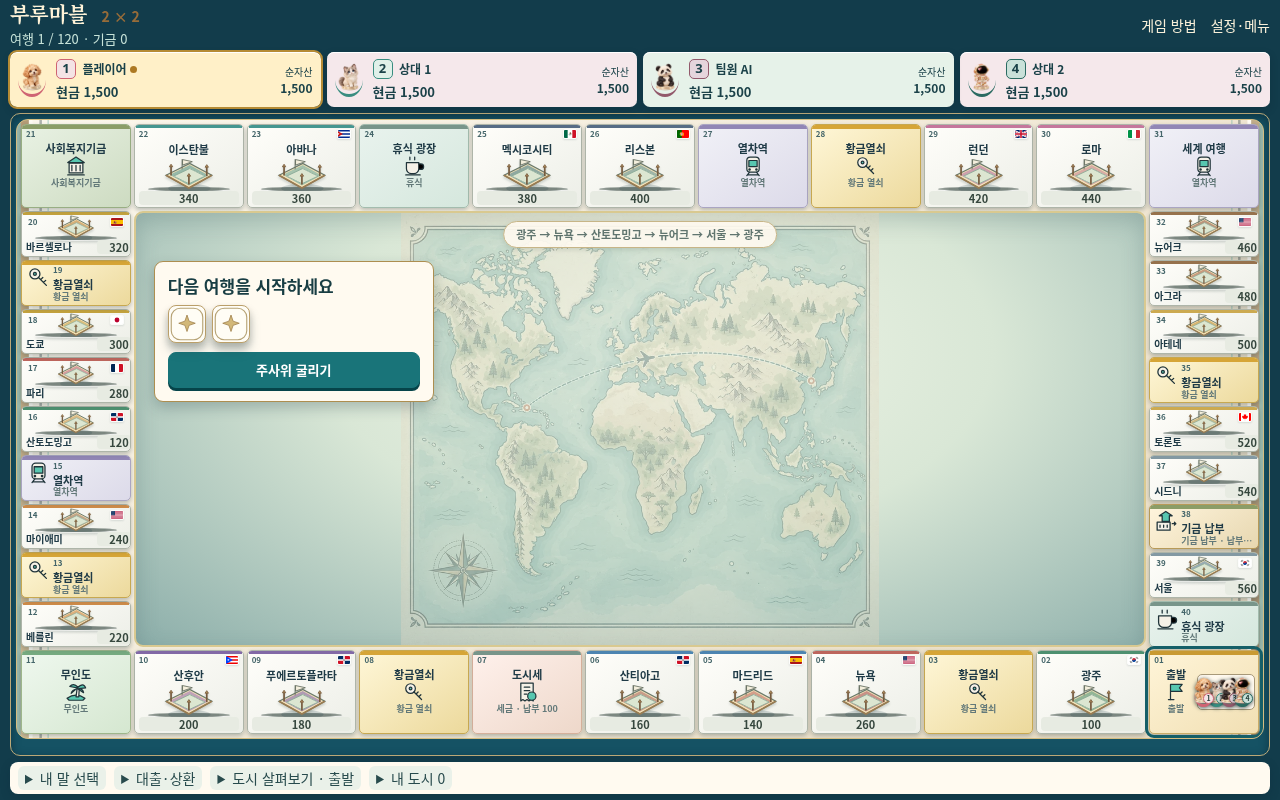
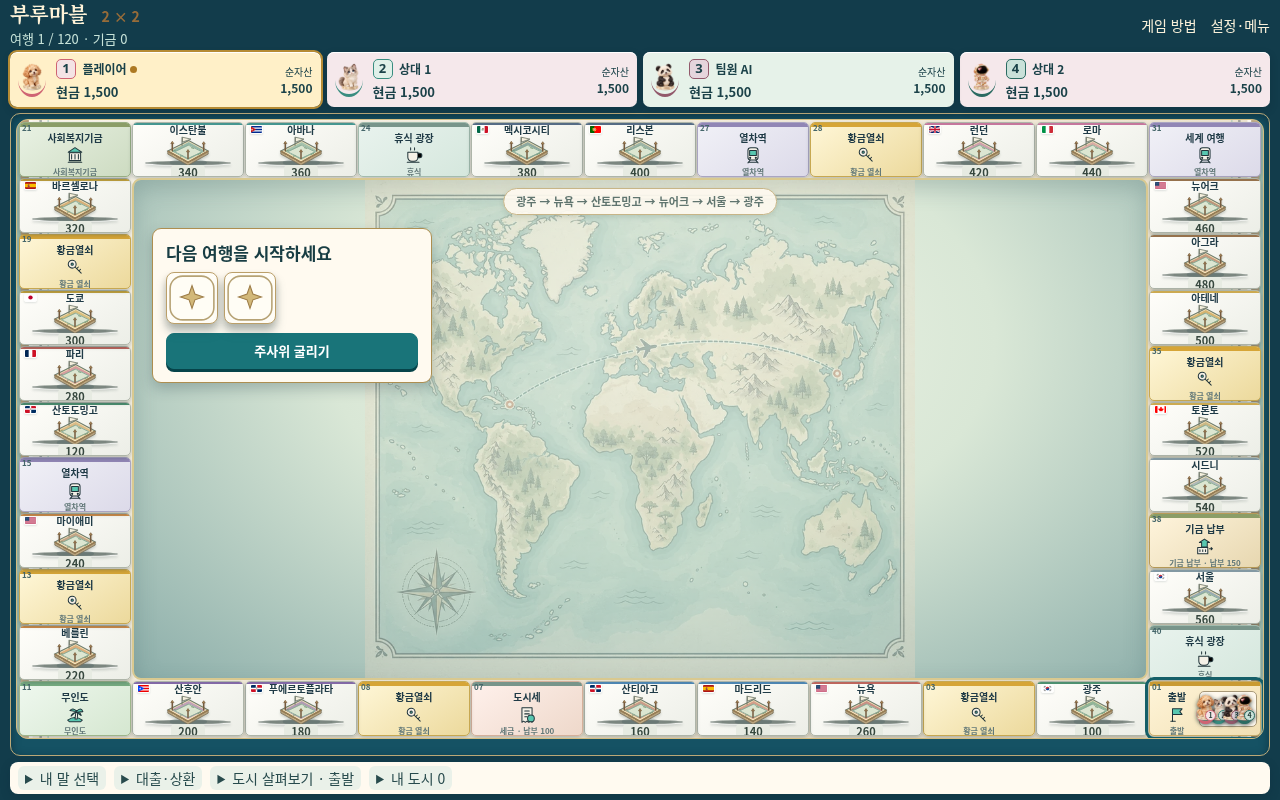
Equalize Marble edge tiles and share building art

Changed region(s): [[0.0, 0.125, 1.0, 0.9375]]

diff --git a/src/app/marble-stage-redesign.css b/src/app/marble-stage-redesign.css
@@ -310,7 +310,7 @@
   }
   :is(.marble-premium,.marble-native-team).is-modern .mp-center-stage.mp-stage--roll:has(.mp-stage-art) .mp-stage-art { width:70px; height:90px; }
   :is(.marble-premium,.marble-native-team).is-modern .mp-center-stage.mp-stage--roll > h2 { max-width:none; margin:0; font-size:17px; line-height:1.25; }
-  :is(.marble-premium,.marble-native-team).is-modern .mp-center-stage.mp-stage--roll .mp-stage-dice .mp-die { width:38px; height:38px; }
+  :is(.marble-premium,.marble-native-team).is-modern .mp-center-stage.mp-stage--roll .mp-stage-dice .mp-die { width:52px; height:52px; }
   :is(.marble-premium,.marble-native-team).is-modern .mp-center-stage.mp-stage--roll .mp-action-primary,
   .marble-native-team.marble-team-board .mp-center-stage.mp-stage--roll .mt-primary { width:100%; min-width:0; min-height:36px; padding:5px 12px; font-size:13px; box-shadow:0 3px 0 #06444a; }
   :is(.marble-premium,.marble-native-team).is-modern .mp-center-stage.mp-stage--roll:has(.mp-stage-art) :is(.mp-action-primary,.mt-primary) { min-height:34px; }
@@ -342,4 +342,61 @@
 }
 @media (min-width:1100px) {
   .marble-premium.is-modern .mp-turn-panel { flex:0 0 auto; width:auto; max-width:100%; }
+}
+
+/* PC route: equal-height edge cells with a dedicated city / building / price row. */
+@media (min-width:1100px) {
+  :is(.marble-premium,.marble-native-team).is-modern .mp-board-grid--40,
+  .marble-native-team.marble-team-board .mt-four-board .mp-board-grid--40 {
+    grid-template-rows:repeat(11,minmax(0,1fr)); gap:1px; padding:2px;
+  }
+  :is(.marble-premium,.marble-native-team).is-modern .mp-board-grid--40 .mp-tile { padding:0 2px; }
+  :is(.marble-premium,.marble-native-team).is-modern .mp-board-grid--40 .mp-kind-property::before { height:2px; }
+  :is(.marble-premium,.marble-native-team).is-modern .mp-board-grid--40 .mp-kind-property .mp-tile-content { position:relative; inset:auto; width:100%; height:100%; transform:none; }
+  :is(.marble-premium,.marble-native-team).is-modern .mp-board-grid--40 :is(.mp-tile--horizontal,.mp-tile--west,.mp-tile--east).mp-kind-property .mp-tile-top {
+    position:absolute; z-index:3; top:1px; right:2px; left:2px; display:flex; justify-content:space-between;
+    width:auto; height:11px; min-height:11px;
+  }
+  :is(.marble-premium,.marble-native-team).is-modern .mp-board-grid--40 .mp-kind-property .mp-tile-top > span:first-child { display:none; }
+  :is(.marble-premium,.marble-native-team).is-modern .mp-board-grid--40 .mp-kind-property .mp-tile-top img { width:13px; height:9px; }
+  :is(.marble-premium,.marble-native-team).is-modern .mp-board-grid--40 .mp-kind-property .mp-owner { width:12px; min-width:12px; height:12px; font-size:8px; }
+  :is(.marble-premium,.marble-native-team).is-modern .mp-board-grid--40 :is(.mp-tile--horizontal,.mp-tile--west,.mp-tile--east).mp-kind-property .mp-property-tile-view {
+    display:grid; width:100%; height:100%; margin:0; padding-top:2px; box-sizing:border-box;
+    grid-template-columns:minmax(0,1fr); grid-template-rows:10px minmax(0,1fr) 11px;
+  }
+  :is(.marble-premium,.marble-native-team).is-modern .mp-board-grid--40 :is(.mp-tile--horizontal,.mp-tile--west,.mp-tile--east).mp-kind-property .mp-property-tile-copy { display:contents; }
+  :is(.marble-premium,.marble-native-team).is-modern .mp-board-grid--40 :is(.mp-tile--horizontal,.mp-tile--west,.mp-tile--east).mp-kind-property .mp-property-tile-copy .mp-tile-name {
+    grid-column:1; grid-row:1; display:block; width:100%; height:10px; min-height:10px; max-height:10px;
+    padding:0 14px; margin:0; box-sizing:border-box; overflow:hidden; font-size:10px; line-height:10px;
+    white-space:nowrap; word-break:keep-all; overflow-wrap:normal; text-align:center; text-overflow:ellipsis;
+  }
+  :is(.marble-premium,.marble-native-team).is-modern .mp-board-grid--40 :is(.mp-tile--horizontal,.mp-tile--west,.mp-tile--east).mp-kind-property .mp-property-tile-art {
+    grid-column:1; grid-row:2; display:block; width:100%; height:100%; min-height:0; max-height:none; margin:0; transform:none;
+  }
+  :is(.marble-premium,.marble-native-team).is-modern .mp-board-grid--40 :is(.mp-tile--horizontal,.mp-tile--west,.mp-tile--east).mp-kind-property .mp-property-art-image { transform:none; }
+  :is(.marble-premium,.marble-native-team).is-modern .mp-board-grid--40 .mp-property-tile-art[data-building-level="1"] { overflow:hidden; }
+  :is(.marble-premium,.marble-native-team).is-modern .mp-board-grid--40 .mp-property-tile-art[data-building-level="1"] > .mp-property-art-image { position:absolute; bottom:0; left:0; height:76%; transform:scale(1.25); transform-origin:center bottom; }
+  :is(.marble-premium,.marble-native-team).is-modern .mp-board-grid--40 .mp-property-tile-art[data-building-level="2"] > .mp-property-art-image { position:absolute; bottom:0; left:0; height:90%; transform:scale(1.1); transform-origin:center bottom; }
+  :is(.marble-premium,.marble-native-team).is-modern .mp-board-grid--40 :is(.mp-tile--horizontal,.mp-tile--west,.mp-tile--east).mp-kind-property .mp-property-tile-copy .mp-tile-economy {
+    grid-column:1; grid-row:3; display:block; width:100%; height:11px; padding:0; margin:0; text-align:center;
+  }
+  :is(.marble-premium,.marble-native-team).is-modern .mp-board-grid--40 .mp-kind-property .mp-property-tile-copy .mp-tile-economy b {
+    display:inline-block; width:auto; min-width:34px; height:11px; padding:0 2px; box-sizing:border-box;
+    font-size:10px; line-height:9px; vertical-align:top;
+  }
+  :is(.marble-premium,.marble-native-team).is-modern .mp-board-grid--40 :is(.mp-tile--horizontal,.mp-tile--west,.mp-tile--east).mp-kind-property .mp-building-badge {
+    position:absolute; display:flex; align-items:center; justify-content:center; gap:1px;
+    top:14px; right:1px; bottom:auto; left:auto; width:auto; min-width:19px; height:13px;
+    padding:0 1px; box-sizing:border-box; border-radius:3px; font-size:9px; line-height:11px;
+    white-space:nowrap; overflow:visible;
+  }
+  :is(.marble-premium,.marble-native-team).is-modern .mp-board-grid--40 .mp-kind-property .mp-building-badge::before { display:inline; content:'L'; font-size:8px; line-height:11px; }
+  :is(.marble-premium,.marble-native-team).is-modern .mp-board-grid--40 .mp-tile:not(.mp-kind-property) .mp-tile-content {
+    position:relative; inset:auto; display:grid; grid-template-columns:minmax(0,1fr);
+    grid-template-rows:9px 12px minmax(0,1fr) 9px; width:100%; height:100%; align-items:center; gap:0; transform:none;
+  }
+  :is(.marble-premium,.marble-native-team).is-modern .mp-board-grid--40 .mp-tile:not(.mp-kind-property) .mp-tile-top { position:relative; grid-column:1; grid-row:1; height:9px; min-height:9px; }
+  :is(.marble-premium,.marble-native-team).is-modern .mp-board-grid--40 .mp-tile:not(.mp-kind-property) .mp-tile-name { grid-column:1; grid-row:2; height:12px; margin:0; font-size:10px; line-height:12px; text-align:center; }
+  :is(.marble-premium,.marble-native-team).is-modern .mp-board-grid--40 .mp-tile:not(.mp-kind-property) .mp-tile-symbol { grid-column:1; grid-row:3; width:18px; height:18px; margin:auto; }
+  :is(.marble-premium,.marble-native-team).is-modern .mp-board-grid--40 .mp-tile:not(.mp-kind-property) .mp-tile-kind { grid-column:1; grid-row:4; height:9px; margin:0; font-size:8px; line-height:9px; text-align:center; }
 }

diff --git a/src/app/MarblePropertyArt.tsx b/src/app/MarblePropertyArt.tsx
@@ -14,42 +14,23 @@ const cityColors: Record<string, string> = {
 };
 const ownerColors = { p1: '#cf6473', p2: '#398d80', p3: '#92596b', p4: '#2b6b62' };
 
-type PropertyArtProps = { city: string; level?: number; className?: string; routeVersion?: number; language?: Language; owner?: 'p1'|'p2'|'p3'|'p4'|null; ownerLabel?: string; compact?: boolean };
-export function MarblePropertyArt({owner, ownerLabel, className = '', compact = false, ...props}: PropertyArtProps) {
+type PropertyArtProps = { city: string; level?: number; className?: string; routeVersion?: number; language?: Language; owner?: 'p1'|'p2'|'p3'|'p4'|null; ownerLabel?: string };
+export function MarblePropertyArt({owner, ownerLabel, className = '', ...props}: PropertyArtProps) {
   if (owner === undefined) return <MarblePropertyImage {...props} className={className}/>;
-  const compactLevel = compact && (props.routeVersion ?? 2) >= 3 && (props.level === 1 || props.level === 2) ? props.level : null;
-  return <span className={`${className} mp-property-art-frame`} data-marble-owner={owner ?? 'bank'} title={ownerLabel} data-building-level={props.level ?? 0} aria-hidden="true">
-    {compactLevel ? <MarbleCompactBuilding level={compactLevel}/> : <MarblePropertyImage {...props} owner={owner} className="mp-property-art-image"/>}
-    <span className="mp-building-plinth"/>
-  </span>;
-}
-function MarbleCompactBuilding({level}:{level:1|2}) {
-  if (level === 1) return <svg className="mp-property-art-image mp-compact-building" viewBox="0 0 80 60" aria-hidden="true">
-    <ellipse cx="40" cy="54" rx="32" ry="5" fill="#274f4d" opacity=".2"/>
-    <path d="M13 28 40 9l28 19-28 9Z" fill="var(--mp-owner-color)" stroke="#375058" strokeWidth="2"/>
-    <path d="M13 28v21l27 9V37Z" fill="#ead5ad" stroke="#586661" strokeWidth="2"/>
-    <path d="M40 37 68 28v21L40 58Z" fill="#d2bd98" stroke="#586661" strokeWidth="2"/>
-    <path d="M24 35v10l9 3V38Zm25 4v10l9-3V36Z" fill="#87abb0" stroke="#416466" strokeWidth="2"/>
-    <path d="M37 45v12" stroke="#6a533e" strokeWidth="4"/>
-  </svg>;
-  return <svg className="mp-property-art-image mp-compact-building" viewBox="0 0 80 72" aria-hidden="true">
-    <ellipse cx="40" cy="66" rx="30" ry="5" fill="#274f4d" opacity=".2"/>
-    <path d="M17 16 48 8l17 8-31 9Z" fill="var(--mp-owner-color)" stroke="#354d54" strokeWidth="2"/>
-    <path d="M17 16v44l17 7V25Z" fill="var(--mp-owner-color)" stroke="#354d54" strokeWidth="2"/>
-    <path d="M34 25 65 16v44l-31 7Z" fill="var(--mp-owner-color)" stroke="#354d54" strokeWidth="2"/>
-    <path d="M22 27l7 2v6l-7-2Zm0 13 7 2v6l-7-2Zm17-10 8-2v7l-8 2Zm15-4 7-2v7l-7 2ZM39 44l8-2v7l-8 2Zm15-4 7-2v7l-7 2Z" fill="#d7edf0" stroke="#3f6470" strokeWidth="1.5"/>
-    <path d="M44 64V53l10-3v12" fill="#f6dfa6" stroke="#4b615e" strokeWidth="2"/>
-    <path d="M17 55 34 62l31-8" fill="none" stroke="#e6d6ad" strokeWidth="2"/>
-  </svg>;
+  return <span className={`${className} mp-property-art-frame`} data-marble-owner={owner ?? 'bank'} title={ownerLabel} data-building-level={props.level ?? 0} aria-hidden="true"><MarblePropertyImage {...props} owner={owner} className="mp-property-art-image"/><span className="mp-building-plinth"/></span>;
 }
 function MarblePropertyImage({ city, level = 0, className = '', routeVersion = 2, language = 'ko', owner }: { city: string; level?: number; className?: string; routeVersion?: number; language?: Language; owner?: 'p1'|'p2'|'p3'|'p4'|null }) {
   const tintId = `mp-building-${useId().replace(/:/g, '')}`;
   // A vacant city is surveyed land; its completed landmark only appears at level three.
   if (routeVersion >= 3 && level === 0) return <svg className={className} viewBox="0 34 128 80" style={{ color: cityColors[city] ?? '#a7b7aa' } as CSSProperties} data-building-level={0} aria-hidden="true" focusable="false">
     <ellipse cx="65" cy="108" rx="50" ry="11" fill="#193f43" opacity=".18"/>
+    <path d="M10 77 64 107 118 77v8l-54 30-54-30Z" fill="#b6a27e" stroke="#756b54" strokeWidth="2"/>
+    <path d="m24 88 8 5m11 5 8 5m16 5 8-5m13-7 8-5" stroke="#e4cf9d" strokeWidth="2"/>
     <path d="M10 77 66 49l52 28-54 30Z" fill="#f5e3b9" stroke="#6b7a6c" strokeWidth="3"/>
     <path d="M19 76 66 53l44 24-46 24Z" fill="currentColor" opacity=".74"/>
     <path d="M28 79 66 61l36 18-38 18Z" fill="#dce6d1" stroke="#86a996" strokeWidth="2"/>
+    <path d="m28 79 36-18 38 18-38 18Z" fill="none" stroke="#7ba28c" strokeWidth="1.5" opacity=".75"/>
+    <path d="m23 78 7-3m60 12 8-4M44 91l5-2M73 68l6 2" stroke="#6d926f" strokeWidth="2" strokeLinecap="round"/>
     <path d="m28 79 36 18m2-36 36 18" stroke="#b8cbb9" strokeWidth="2" strokeDasharray="3 4"/>
     <path d="M22 76V56m84 21V57M64 97V78" stroke="#765b3e" strokeWidth="4" strokeLinecap="round"/>
     <path d="m18 57 4-6 4 6Zm84 1 4-6 4 6ZM60 79l4-6 4 6Z" fill="#bd9860" stroke="#765b3e" strokeWidth="2"/>

diff --git a/src/app/MarbleCityTile.tsx b/src/app/MarbleCityTile.tsx
@@ -30,7 +30,7 @@ export function MarbleCityTile({ tile, index, tileCount, position, language, rou
     <div className="mp-tile-content">
       <div className="mp-tile-top"><span>{String(index+1).padStart(2,'0')}</span>{flag&&<img src={`/images/marble/flags/${flag}.svg`} alt="" aria-hidden="true" loading="lazy" decoding="async"/>}{owner&&<b className={`mp-owner mp-owner-${owner}`} title={seatLabel(owner)} aria-label={seatLabel(owner)}>{owner.slice(1)}</b>}</div>
       {kind==='property'?<div className="mp-property-tile-view">
-        {art&&<MarblePropertyArt routeVersion={routeVersion} language={language} className="mp-property-tile-art" city={art} level={modern?num(tile.houses):0} owner={owner} ownerLabel={owner?seatLabel(owner):copy(language,'은행','Banco')} compact/>}
+        {art&&<MarblePropertyArt routeVersion={routeVersion} language={language} className="mp-property-tile-art" city={art} level={modern?num(tile.houses):0} owner={owner} ownerLabel={owner?seatLabel(owner):copy(language,'은행','Banco')}/>}
         {growth&&art&&num(tile.houses)>0&&<span className="mp-growth-previous"><MarblePropertyArt routeVersion={routeVersion} language={language} city={art} level={num(tile.houses)-1} owner={owner}/></span>}
         <div className="mp-property-tile-copy"><strong className="mp-tile-name" title={name}>{name}</strong><small className="mp-tile-economy"><b data-marble-price-kind={owner?'rent':'purchase'} title={owner?copy(language,`현재 통행료 ${rentValue(tile,modern)}`,`Alquiler actual ${rentValue(tile,modern)}`):copy(language,`매입가 ${num(tile.price)}`,`Precio de compra ${num(tile.price)}`)}>{moneyText(owner?rentValue(tile,modern):num(tile.price),language)}</b><span>{owner?copy(language,`통행료 ${moneyText(rentValue(tile,modern),language)}`,`Renta ${moneyText(rentValue(tile,modern),language)}`):copy(language,`기본 통행료 ${moneyText(num(tile.rent),language)}`,`Renta base ${moneyText(num(tile.rent),language)}`)}</span></small></div>
         {num(tile.houses)>0&&<span className="mp-building-badge" data-building-level={num(tile.houses)} aria-label={copy(language,`${building} ${num(tile.houses)}단계`,`${building}, nivel ${num(tile.houses)}`)}>{num(tile.houses)}</span>}

diff --git a/src/app/MarblePropertyArt.test.tsx b/src/app/MarblePropertyArt.test.tsx
@@ -70,16 +70,6 @@ describe('Marble property shapes', () => {
       }
     }
   });
-  it('draws distinct owner-colored building silhouettes at board size', () => {
-    const house = renderToStaticMarkup(createElement(MarblePropertyArt, { city:'new-york', level:1, routeVersion:3, owner:'p1', compact:true }));
-    const apartment = renderToStaticMarkup(createElement(MarblePropertyArt, { city:'new-york', level:2, routeVersion:3, owner:'p2', compact:true }));
-    expect(house).toContain('mp-compact-building');
-    expect(house).toContain('viewBox="0 0 80 60"');
-    expect(apartment).toContain('viewBox="0 0 80 72"');
-    expect(house).toContain('var(--mp-owner-color)');
-    expect(apartment).toContain('var(--mp-owner-color)');
-    expect(house).not.toBe(apartment);
-  });
   it('keeps every unbuilt city as land, separate from its final landmark', () => {
     for (const asset of journeyManifest.assets) {
       expect(render(asset.slug, 0)).toContain('building-stages.svg#land');

diff --git a/src/app/MarbleCityTile.test.tsx b/src/app/MarbleCityTile.test.tsx
@@ -3,6 +3,7 @@ import { renderToStaticMarkup } from 'react-dom/server';
 import { describe, expect, it, vi } from 'vitest';
 import { MarbleCityTile } from './MarbleCityTile';
 import { marbleEngine } from '../games/marble';
+import dioramas from '../../public/images/marble/dioramas/manifest.json';
 
 describe('MarbleCityTile', () => {
   const board = marbleEngine.getPlayerView(marbleEngine.createInitialState(3), 'p1').board;
@@ -21,5 +22,9 @@ describe('MarbleCityTile', () => {
     expect(built).toContain('data-marble-price-kind="rent"');
     expect(built).toContain('data-building-level="3"');
     expect(built).toContain('premium/cities/new-york');
+  });
+  it('uses the same house and apartment assets as the enlarged city card', () => {
+    expect(render(3,'p1',1)).toContain(dioramas.commonStages.house.path!);
+    expect(render(3,'p1',2)).toContain(dioramas.commonStages.apartment.path!);
   });
 });

diff --git a/docs/qa/marble-layout-art-qa/README.md b/docs/qa/marble-layout-art-qa/README.md
@@ -13,10 +13,10 @@ Branch: `codex/marble-layout-art-qa`, starting from `5b8aebc` (`2c78ba1` on prod
 | 4p built | [old levels](../marble-existing-upgrade/4p-levels-1280x800.png) | [built levels](4p-levels-1280x800.png) | [built levels](4p-levels-1440x900.png) |
 | 4p selected | [old selection](../marble-existing-upgrade/4p-apartment-selected-1280x800.png) | [selected apartment](4p-apartment-selected-1280x800.png) | [selected apartment](4p-apartment-selected-1440x900.png) |
 
-At 1280×800, the playable 2p board grows from roughly 680px to **1256px** wide; 4p grows to **1248px**. At 1440×900 they are 1416px and 1408px. The four HUDs occupy one 55px row in 4p, and the two 2p HUDs occupy one 52px row. Board and bottom controls fit the captured viewports. House roofs and apartment facades use their owner's color in the board art itself, while owner number, tier, and purchase or toll remain separate. Built art on a side-edge tile has 25.8px of height at 1280 and 35.8px at 1440; the previous square board made it single-digit height.
+At 1280×800, the playable 2p board grows from roughly 680px to **1256px** wide; 4p grows to **1248px**. At 1440×900 they are 1416px and 1408px. The four HUDs occupy one 55px row in 4p, and the two 2p HUDs occupy one 52px row. Board and bottom controls fit the captured viewports. The eleven board rows now have equal height. City name, building, and price each have a separate slot on every edge, while owner and the full tier badge stay inside the tile. House roofs and apartment facades use their owner's color in the same approved artwork shown by the enlarged city card. A built side-edge tile has about 30px of art height at 1280 and 38px at 1440; the rejected square board made it single-digit height.
 
-The primary roll action sits at the map's left side. The route label stays clear, and the large selected-city card no longer needs to carry the only readable building. Special-square names remain on one line in the captured Korean views. The existing world map, city art, flags, and action components are reused; the compact house and apartment silhouettes are new SVG markup, with no copied reference artwork.
+The primary roll action sits at the map's left side. The route label stays clear, and the large selected-city card no longer needs to carry the only readable building. Special-square names remain on one line in the captured Korean views. The existing world map, approved house/apartment/city artwork, flags, and action components are reused. The vacant plot keeps its isometric SVG with improved stone and grass detail. No reference artwork was copied.
 
-Run `node docs/qa/marble-layout-art-qa/capture.mjs` while Vite is serving `http://127.0.0.1:5176/play?game=marble`. It uses the existing engines and asserts 40 cells, a board at least 94% of viewport width, a fully visible board, at least 24px of side-edge built art, and no page errors. The synthetic built fixtures contain levels 0–3 on bottom tiles and owner-colored buildings on both side edges. The official reference image at `https://c2.img.netmarble.kr/web/board/moma/v2/img/guide/g7/img01.jpg` was requested, but its server/proxy returned HTTP 403 here; no assets from it were used.
+Run `node docs/qa/marble-layout-art-qa/capture.mjs` while Vite is serving `http://127.0.0.1:5176/play?game=marble`. It uses the existing engines and asserts 40 cells, a board at least 94% of viewport width, a fully visible board, equal edge-row heights, at least 24px of side-edge built art, no clipped property names or overlapping name/art/price slots, in-tile tier badges, and no page errors. The synthetic built fixtures contain levels 0–3 on bottom tiles and owner-colored buildings on both side edges. The official reference image at `https://c2.img.netmarble.kr/web/board/moma/v2/img/guide/g7/img01.jpg` was requested, but its server/proxy returned HTTP 403 here; no assets from it were used.
 
-Validation: `npm run build` passed; full Vitest suite passed (115 files, 1006 tests). Final typecheck and focused component tests passed after the compact SVG refactor. Only PC viewports were reviewed.
+Validation: production build and typecheck passed. Full Vitest passed after the equal-row and shared-art patch: 115 files, 1,006 tests, using four workers and longer timeouts for unrelated heavy tests. Only PC viewports were reviewed.
